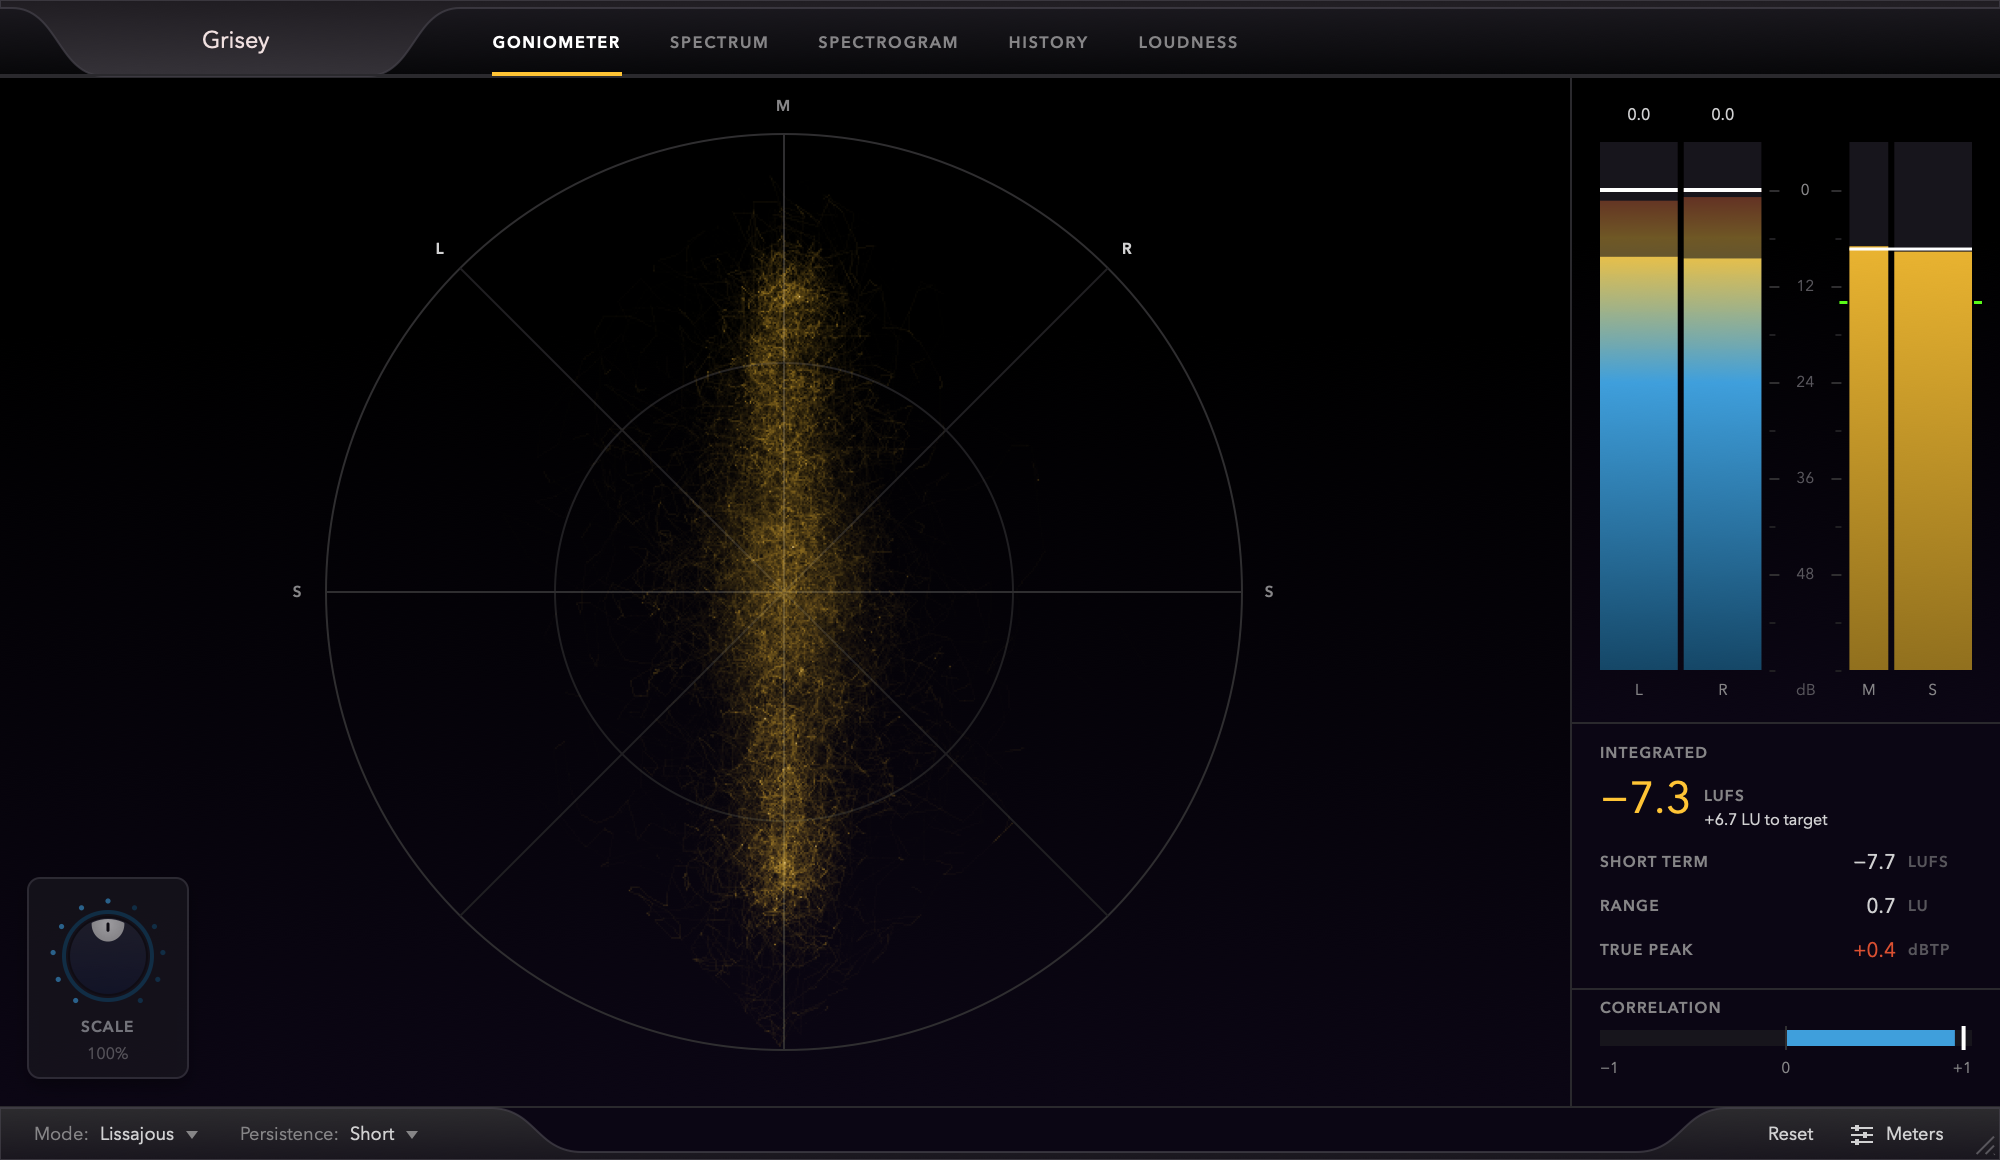
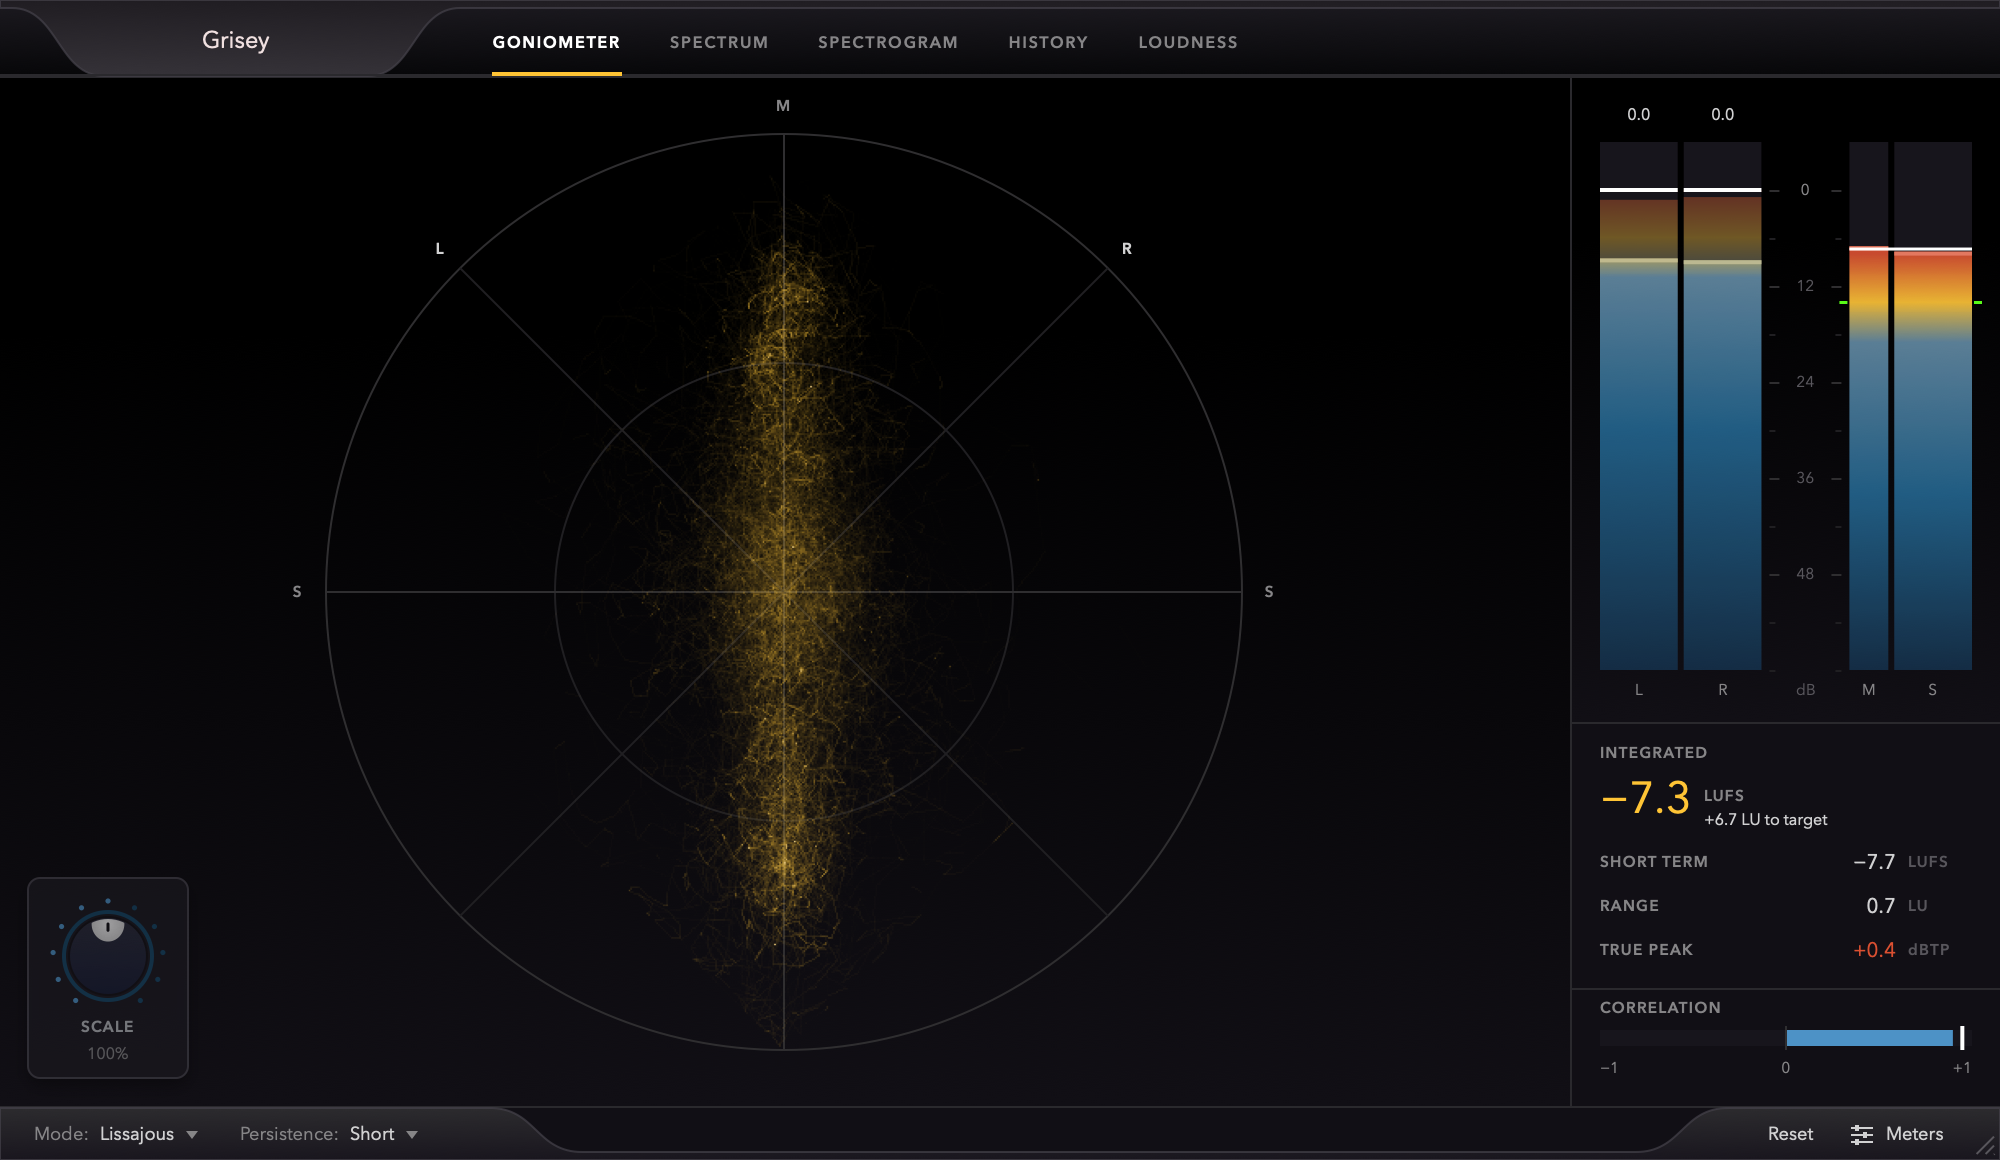
Take the blues and the fills from FabFilter's, as measured
The colors of a picture of Pro-R 2 were measured, not judged by eye.

Its amber fill has the same hue as ours, so the olive of the spectrum was not
the yellow: it was the blue light of the second curve under the yellow light of
the first. Only the first curve has a light beneath it now.

Its blue is a steel blue (#22648d to #6289a2), where ours was a sky blue
(#3f9fdc). The blue of the lines is now #4d92c6, and the bars have the measured
steel: deep at the foot, lighter towards the top, then yellow and red. One
function in Theme.h makes that scale for the level bars, for the history of the
levels, and for the loudness bars, which were blocks of ochre and now turn
yellow at the target and red 6 LU above it, as the level bars do at full scale,
and stay blue without a target.

The floor of a display is its faintly purple grey (#110f15), where it was a
deeper purple. All five pictures of the README are taken again.

Changed region(s): [[0.775, 0.2172, 0.992, 0.5897], [0.372, 0.2483, 0.403, 0.4034], [0.372, 0.6517, 0.403, 0.6828]]

diff --git a/Source/Views/LevelMeters.cpp b/Source/Views/LevelMeters.cpp
@@ -40,17 +40,21 @@ void LevelMeters::resized()
         readoutAreas[channel] = channelBars[channel].toNearestInt().withY(readoutRow.getY()).withHeight(readoutRow.getHeight()).expanded(1, 0);
 
     // Blue through the working range, yellow as the level nears full scale, and red above it
-    auto proportionOf = [](float decibels) { return (double)juce::jmap(decibels, minDb, maxDb, 0.f, 1.f); };
-
-    levelGradient = juce::ColourGradient(Theme::secondDeep, 0.f, (float)barsArea.getBottom(), Theme::over, 0.f, (float)barsArea.getY(), false);
-    levelGradient.addColour(proportionOf(-24.f), Theme::second);
-    levelGradient.addColour(proportionOf(-6.f), Theme::accent);
-    levelGradient.addColour(proportionOf(0.f), Theme::over);
-
-    // The loudness bars are in the yellow of the signal
-    loudnessGradient = juce::ColourGradient(Theme::accent.darker(0.75f), 0.f, (float)barsArea.getBottom(), Theme::accent, 0.f, (float)barsArea.getY(), false);
+    const juce::Point<float> foot(0.f, (float)barsArea.getBottom()), top(0.f, (float)barsArea.getY());
+    levelGradient = Theme::levelColours(minDb, maxDb, -6.f, 0.f, foot, top);
+    updateLoudnessGradient();
 
     staticLayer.invalidate();
+}
+
+void LevelMeters::updateLoudnessGradient()
+{
+    // The loudness bars turn yellow at the target, and red 6 LU above it, as the level bars do at full scale.
+    // Without a target they stay blue.
+    const juce::Point<float> foot(0.f, (float)barsArea.getBottom()), top(0.f, (float)barsArea.getY());
+    const bool hasTarget = shown.targetLufs < 0.f;
+    loudnessGradient = Theme::levelColours(minDb, maxDb, hasTarget ? shown.targetLufs : 100.f, hasTarget ? shown.targetLufs + 6.f : 200.f, foot, top);
+    gradientTargetLufs = shown.targetLufs;
 }
 
 void LevelMeters::mouseDown(const juce::MouseEvent&)
@@ -112,6 +116,9 @@ void LevelMeters::update(const Levels& levels, const Settings& newSettings, floa
 
     shown = levels;
 
+    if (!juce::exactlyEqual(shown.targetLufs, gradientTargetLufs))
+        updateLoudnessGradient();
+
     // The numbers change ten times a second, which is as fast as they can be read
     secondsSinceReadout += (double)elapsedSeconds;
     if (secondsSinceReadout >= Theme::readoutIntervalSeconds)
@@ -157,7 +164,7 @@ void LevelMeters::paint(juce::Graphics& g)
         g.fillRect(bar.withTop(y));
         g.setOpacity(1.f);
 
-        g.setColour(Theme::accent);
+        g.setColour(capColourAt(loudnessGradient, y));
         g.fillRect(bar.withTop(y).withHeight(Theme::barCapHeight));
     }
 
@@ -183,21 +190,14 @@ void LevelMeters::paintChannel(juce::Graphics& g, const Channel& channel, juce::
 {
     const float rmsY = settings.showRms ? yOf(channel.rms) : bar.getBottom();
 
-    // The color of the scale at a height, for the bright line at the top of a bar
-    auto capColourAt = [&](float y)
-    {
-        const double proportion = (levelGradient.point1.y - y) / (levelGradient.point1.y - levelGradient.point2.y);
-        return levelGradient.getColourAtPosition(juce::jlimit(0.0, 1.0, proportion)).brighter(0.25f);
-    };
-
     if (settings.showRms && channel.rms > minDb)
     {
         g.setGradientFill(levelGradient);
-        g.setOpacity(Theme::barBodyAlpha + 0.18f);
+        g.setOpacity(Theme::barBodyAlpha);
         g.fillRect(bar.withTop(rmsY));
         g.setOpacity(1.f);
 
-        g.setColour(capColourAt(rmsY));
+        g.setColour(capColourAt(levelGradient, rmsY));
         g.fillRect(bar.withTop(rmsY).withHeight(Theme::barCapHeight));
     }
 

diff --git a/Source/UI/Theme.h b/Source/UI/Theme.h
@@ -24,7 +24,7 @@ namespace Theme
 
     // Displays
     inline const juce::Colour displayTop { 0xff000000 };     // a display runs from black at the top
-    inline const juce::Colour displayBottom { 0xff0b0614 };  // to a deep purple at the bottom
+    inline const juce::Colour displayBottom { 0xff110f15 };  // to a dark, faintly purple grey at the bottom
     inline const juce::Colour display { 0xff05030a };        // one color for where a gradient cannot be used
     inline const juce::Colour track { 0xff17151c };          // the unlit part of a meter
     inline const juce::Colour grid { 0xff201f22 };
@@ -45,7 +45,12 @@ namespace Theme
 
     // Signal
     inline const juce::Colour accent { 0xffffc435 };   // yellow: the left or mid channel, and anything that is "the signal"
-    inline const juce::Colour second { 0xff3f9fdc };   // blue: the right or side channel
+    inline const juce::Colour second { 0xff4d92c6 };   // blue: the right or side channel. A steel blue, not a sky blue.
+
+    // The blue of a meter, measured from FabFilter's: deep at the foot of a bar, and lighter towards its top
+    inline const juce::Colour meterDeep { 0xff142f48 };
+    inline const juce::Colour meterMid { 0xff22648d };
+    inline const juce::Colour meterLight { 0xff6289a2 };
     inline const juce::Colour secondDeep { 0xff154767 }; // the deep blue of a knob's ring
     inline const juce::Colour held { 0xffffffff };     // peak holds and ticks
     inline const juce::Colour target { 0xff59fb18 };   // what to aim for
@@ -65,7 +70,7 @@ namespace Theme
     inline constexpr float curveBloomWidth = 5.5f;
 
     // A bar is the same: its body is held back, and the line at its top, which is the reading, is bright
-    inline constexpr float barBodyAlpha = 0.62f;
+    inline constexpr float barBodyAlpha = 0.9f;
     inline constexpr float barCapHeight = 2.f;
 
     // Measurements in pixels
@@ -109,6 +114,22 @@ namespace Theme
     // Small capitals with a little space between the letters, for the names of things
     inline juce::Font labelFont()   { return font(10.5f, true).withExtraKerningFactor(0.06f); }
     inline juce::Font controlFont() { return font(12.5f); }
+
+    // The colors of a level from the foot of a scale to its top: steel blue through the working range,
+    // lighter as it rises, yellow from yellowFromDb, and red from redFromDb. The level bars, the history of
+    // the levels and the loudness bars all use it, the last with the target in place of full scale.
+    inline juce::ColourGradient levelColours(float minDb, float maxDb, float yellowFromDb, float redFromDb,
+                                             juce::Point<float> foot, juce::Point<float> top)
+    {
+        auto proportionOf = [&](float decibels) { return (double)juce::jlimit(0.f, 1.f, juce::jmap(decibels, minDb, maxDb, 0.f, 1.f)); };
+
+        juce::ColourGradient gradient(meterDeep, foot, over, top, false);
+        gradient.addColour(proportionOf(yellowFromDb - 24.f), meterMid);
+        gradient.addColour(proportionOf(yellowFromDb - 5.f), meterLight);
+        gradient.addColour(proportionOf(yellowFromDb), accent);
+        gradient.addColour(proportionOf(redFromDb), over);
+        return gradient;
+    }
 
     inline int textWidth(const juce::Font& f, const juce::String& t)
     {

diff --git a/Source/Views/SpectrumView.cpp b/Source/Views/SpectrumView.cpp
@@ -102,13 +102,16 @@ void SpectrumView::paint(juce::Graphics& g)
 
             // The color is in the line. What is beneath it is only its light, which is brightest under the
             // top of the curve and gone a little more than half way down the plot, so that the display stays
-            // dark. The second curve usually lies over the first, as left and right do, so its light is fainter,
-            // or the two would mix into a muddy color.
-            const auto area = makePath(shown[i], true);
-            const float top = area.getBounds().getY();
-            g.setGradientFill(juce::ColourGradient(colours[i].withAlpha(index == 0 ? Theme::curveLightAlpha : 0.4f * Theme::curveLightAlpha), 0.f, top,
-                                                   colours[i].withAlpha(0.f), 0.f, top + Theme::curveLightReach * (float)plot.getHeight(), false));
-            g.fillPath(area);
+            // dark. Only the first curve has it: the second usually lies over the first, as left and right do,
+            // and a blue light under a yellow one makes an olive green of the two.
+            if (index == 0)
+            {
+                const auto area = makePath(shown[i], true);
+                const float top = area.getBounds().getY();
+                g.setGradientFill(juce::ColourGradient(colours[i].withAlpha(Theme::curveLightAlpha), 0.f, top,
+                                                       colours[i].withAlpha(0.f), 0.f, top + Theme::curveLightReach * (float)plot.getHeight(), false));
+                g.fillPath(area);
+            }
 
             // A wide, faint stroke under the line is its bloom
             const auto line = makePath(shown[i], false);

diff --git a/Source/Views/HistoryView.cpp b/Source/Views/HistoryView.cpp
@@ -11,13 +11,8 @@ void HistoryView::resized()
     // The same margins as the spectrogram, so that a moment is at the same place in both
     plot = getLocalBounds().withTrimmedLeft(34).withTrimmedRight(34).withTrimmedTop(8).withTrimmedBottom(20);
 
-    // The same colors as the level meters: blue through the working range, yellow near full scale, red above it
-    auto proportionOf = [](float decibels) { return (double)juce::jmap(decibels, minDb, maxDb, 0.f, 1.f); };
-
-    juce::ColourGradient gradient(Theme::secondDeep, 0.f, 0.f, Theme::over, 0.f, 1.f, false);
-    gradient.addColour(proportionOf(-24.f), Theme::second);
-    gradient.addColour(proportionOf(-6.f), Theme::accent);
-    gradient.addColour(proportionOf(0.f), Theme::over);
+    // The same colors as the level meters
+    const auto gradient = Theme::levelColours(minDb, maxDb, -6.f, 0.f, { 0.f, 0.f }, { 0.f, 1.f });
 
     // The background of each row is what Theme::fillDisplay() draws at its height
     const juce::ColourGradient background(Theme::displayTop, 0.f, 0.f, Theme::displayBottom, 0.f, 1.f, false);

diff --git a/Source/Views/LevelMeters.h b/Source/Views/LevelMeters.h
@@ -82,6 +82,17 @@ private:
 
     // The colors of a bar run up its height, so that a level always has the same color
     juce::ColourGradient levelGradient, loudnessGradient;
+    float gradientTargetLufs = 1.f;   // the target that the loudness gradient was made for
+
+    // Makes the gradient of the loudness bars again, for the target that is showing
+    void updateLoudnessGradient();
+
+    // The color of a scale at a height, a little brighter, for the line at the top of a bar
+    static juce::Colour capColourAt(const juce::ColourGradient& gradient, float y)
+    {
+        const double proportion = (gradient.point1.y - y) / (gradient.point1.y - gradient.point2.y);
+        return gradient.getColourAtPosition(juce::jlimit(0.0, 1.0, proportion)).brighter(0.3f);
+    }
     CachedLayer staticLayer;
 
     JUCE_DECLARE_NON_COPYABLE_WITH_LEAK_DETECTOR(LevelMeters)
